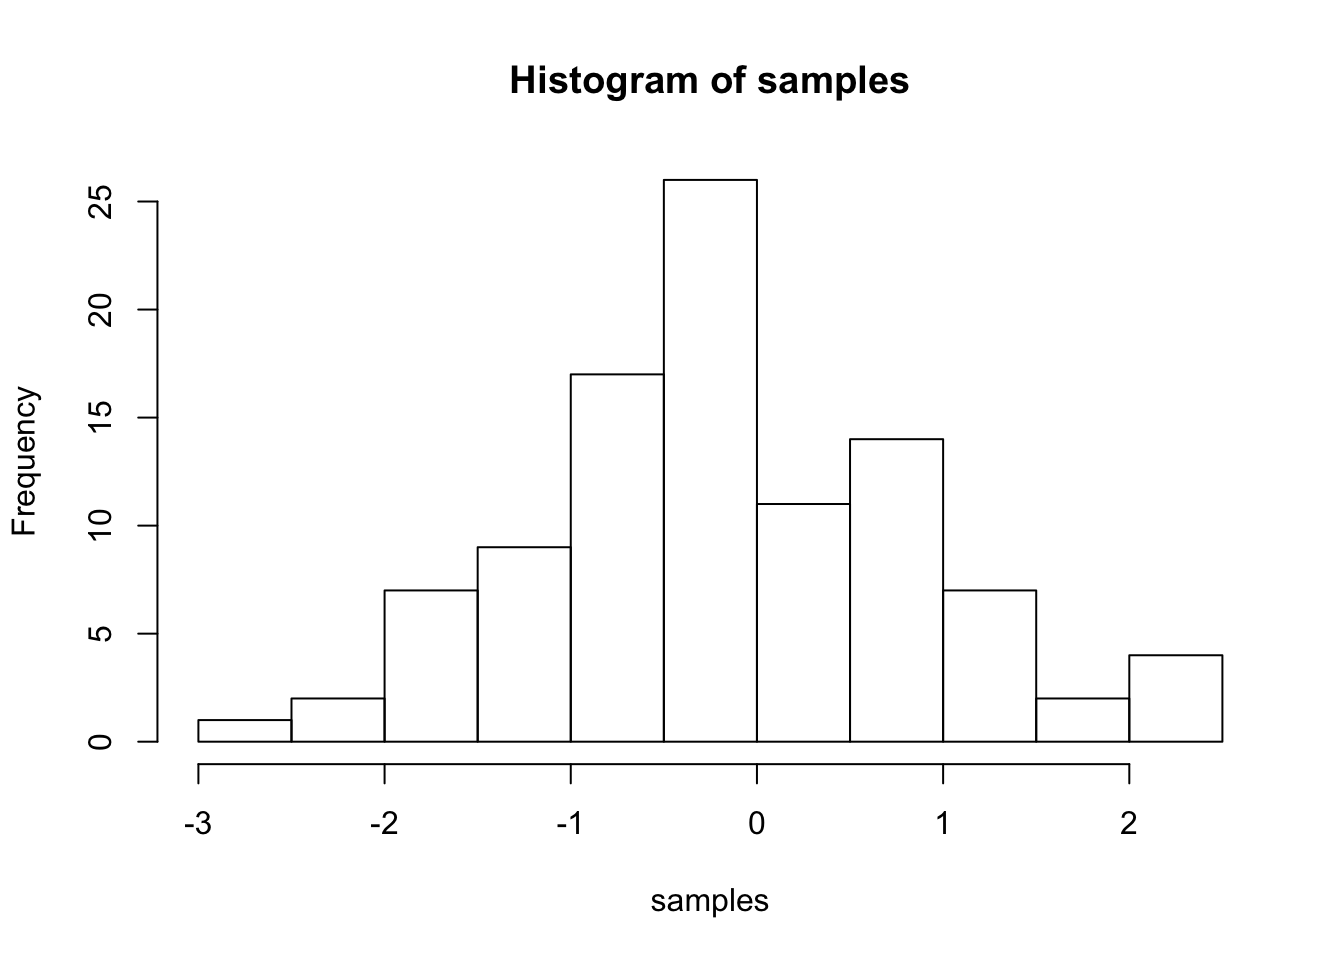
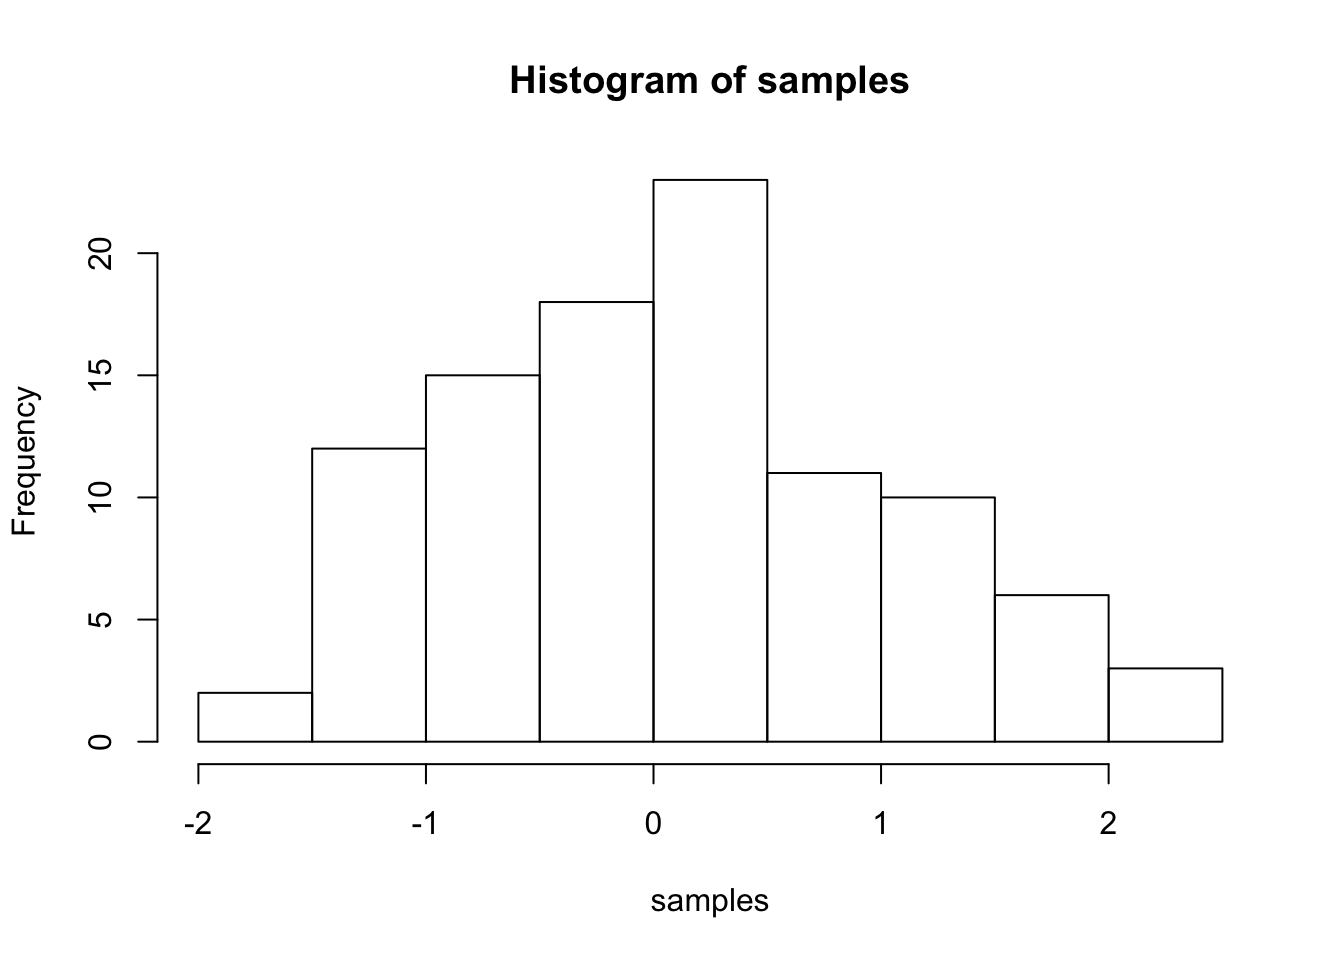
Change 4

diff --git a/docs/Journal.html b/docs/Journal.html
@@ -402,17 +402,16 @@ div.tocify {
 </div>
 
 
-<p>IMPORTANT: You can delete everything in here and start fresh. You might want to start by not deleting anything above this line until you know what that stuff is doing.</p>
-<pre class="r"><code>1+68</code></pre>
-<pre><code>## [1] 69</code></pre>
-<pre class="r"><code>13*3</code></pre>
-<pre><code>## [1] 39</code></pre>
+<div id="notes-to-myself" class="section level2">
+<h2>Notes to myself:</h2>
 <p>Option+Command+i to insert R code in HTML Control+Enter to run inserted R code</p>
-<pre class="r"><code>joey &lt;- 47
-chance &lt;- 3
-joey + chance</code></pre>
-<pre><code>## [1] 50</code></pre>
+<div id="r-code-insertion-eample" class="section level3">
+<h3>R Code Insertion Eample:</h3>
+<pre class="r"><code>1+68
+13*3</code></pre>
 <p>This is an .Rmd file. It is plain text with special features. Any time you write just like this, it will be compiled to normal text in the website. If you put a # in front of your text, it will create a top level-header.</p>
+</div>
+</div>
 <div id="my-first-post-is-cool" class="section level1">
 <h1>My first post is cool</h1>
 <p>2018 | 7 | 23 Last compiled: 2019-01-28</p>
@@ -437,7 +436,7 @@ joey + chance</code></pre>
 <p>So, let’s say you are learning how to make a histogram in R. For example, maybe you want to sample 100 numbers from a normal distribution with mean = 0, and standard deviation =1, and then you want to plot a histogram. You can do this right here by using an r code block, like this:</p>
 <pre class="r"><code>samples &lt;- rnorm(100, mean=0, sd=1)
 hist(samples)</code></pre>
-<p><img src="Journal_files/figure-html/unnamed-chunk-3-1.png" width="672" /></p>
+<p><img src="Journal_files/figure-html/unnamed-chunk-2-1.png" width="672" /></p>
 <p>When you knit this R Markdown document, you will see that the histogram is printed to the page, along with the R code. This document can be set up to hide the R code in the webpage, just delete the comment (hashtag), from the cold folding option in the yaml header up top. For purposes of letting yourself see the code, and me see the code, best to keep it the way that it is. You learn all of these things and more can be customized in each R code block.</p>
 </div>
 <div id="the-big-idea" class="section level1">
@@ -519,10 +518,6 @@ print(a)</code></pre>
 ##  [52]  52  53  54  55  56  57  58  59  60  61  62  63  64  65  66  67  68
 ##  [69]  69  70  71  72  73  74  75  76  77  78  79  80  81  82  83  84  85
 ##  [86]  86  87  88  89  90  91  92  93  94  95  96  97  98  99 100</code></pre>
-</div>
-<div id="replace-this-with-problem-4" class="section level1">
-<h1>Replace this with problem 4</h1>
-<p>And keep going. Try to solve the problems with different scripts that provide the same solution. Good luck, Happy coding.</p>
 </div>
 
 
